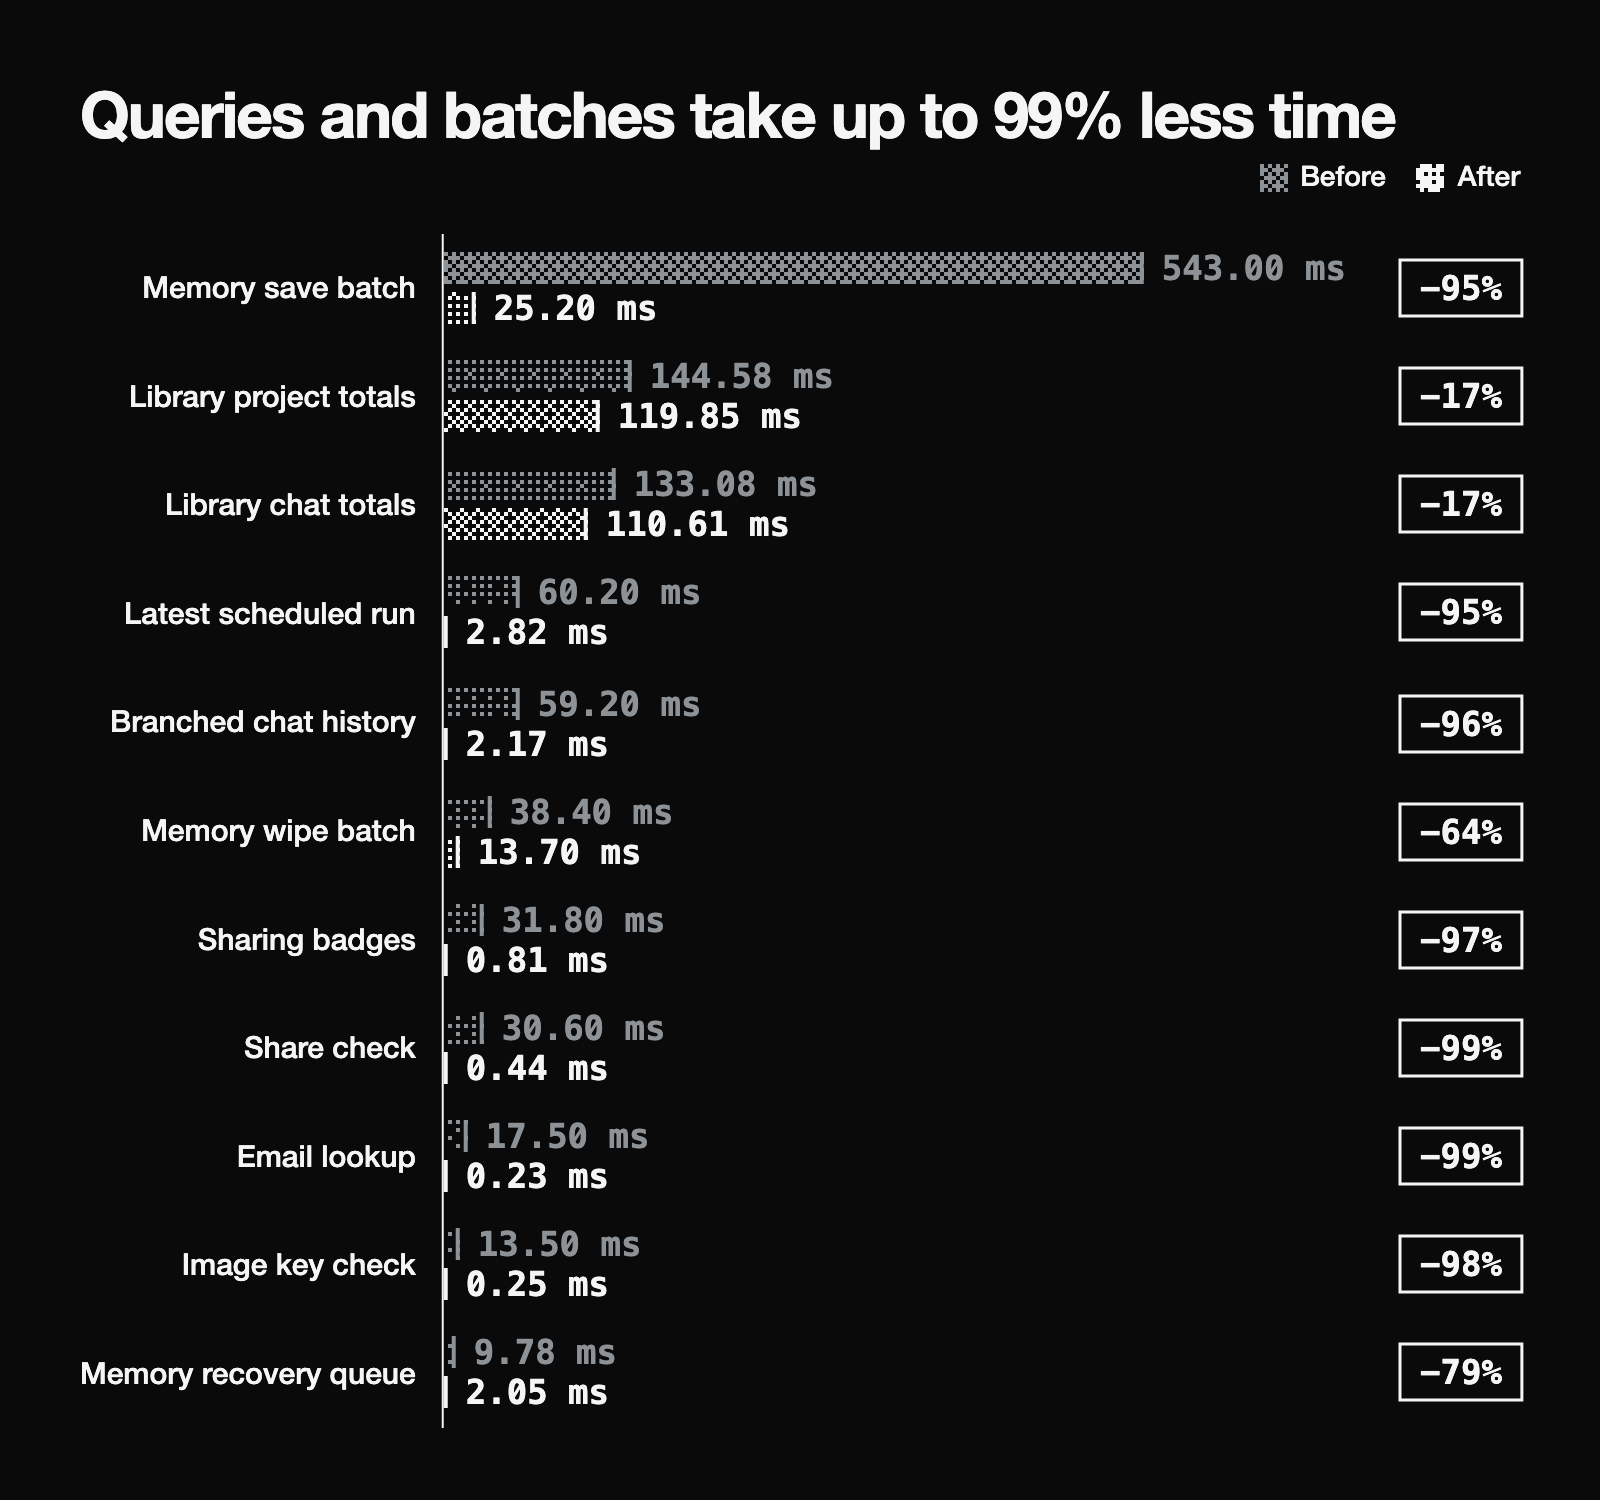
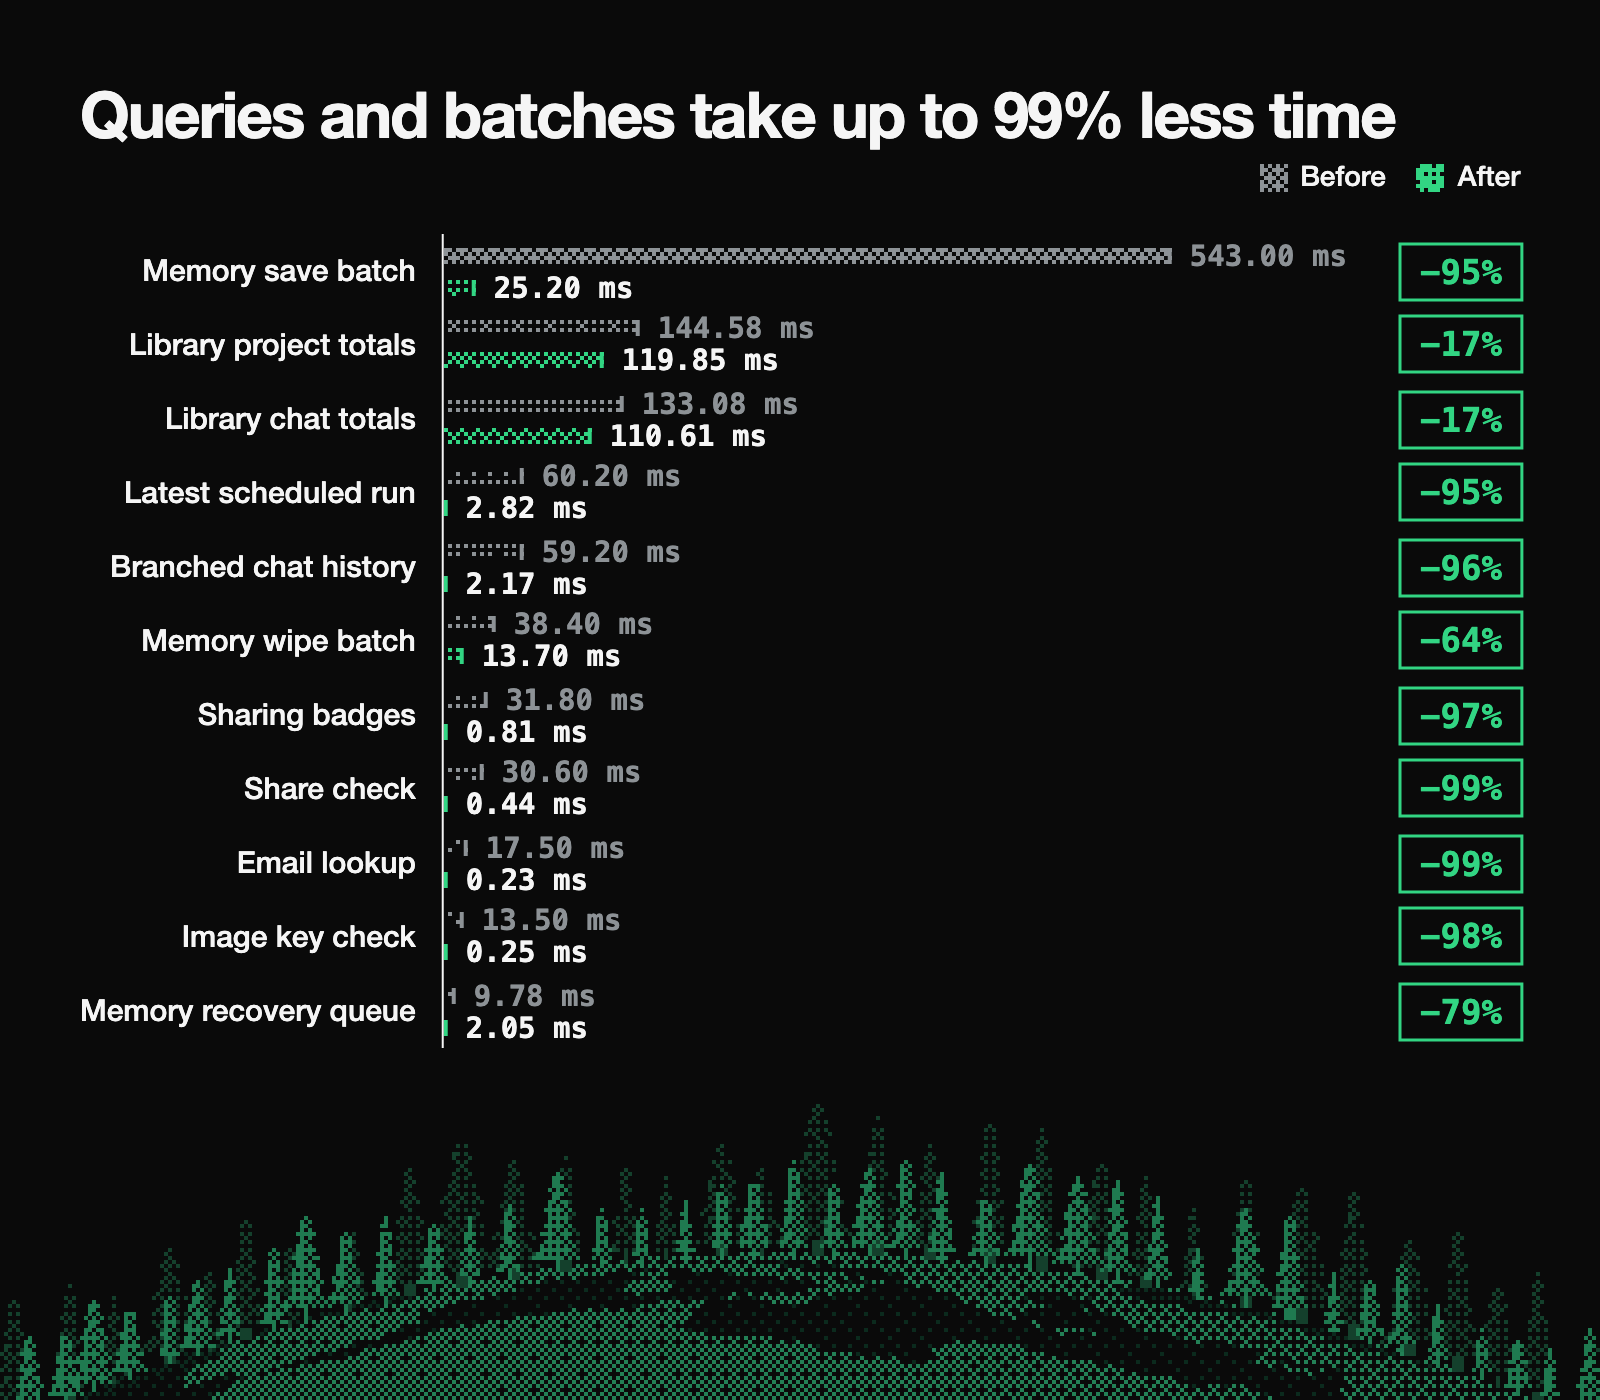
Update benchmark chart with Earth scene

Changed region(s): [[0.0, 0.0614, 1.0, 1.0]]

diff --git a/README.md b/README.md
@@ -1,5 +1,5 @@
 <p align="center">
-  <img src="docs/query-improvements.png" alt="Queries and batches take up to 99% less time. Before and after times for 11 query and batch paths, including email lookup at 17.5 to 0.234 ms and a memory save batch at 543 to 25.2 ms." width="820">
+  <img src="docs/query-improvements.png" alt="Queries and batches take up to 99% less time. Memory save batch: Before 543.00 ms, After 25.20 ms; Library project totals: Before 144.58 ms, After 119.85 ms; Library chat totals: Before 133.08 ms, After 110.61 ms; Latest scheduled run: Before 60.20 ms, After 2.82 ms; Branched chat history: Before 59.20 ms, After 2.17 ms; Memory wipe batch: Before 38.40 ms, After 13.70 ms; Sharing badges: Before 31.80 ms, After 0.81 ms; Share check: Before 30.60 ms, After 0.44 ms; Email lookup: Before 17.50 ms, After 0.23 ms; Image key check: Before 13.50 ms, After 0.25 ms; Memory recovery queue: Before 9.78 ms, After 2.05 ms." width="820">
 </p>
 
 <h1 align="center">query-tune</h1>
